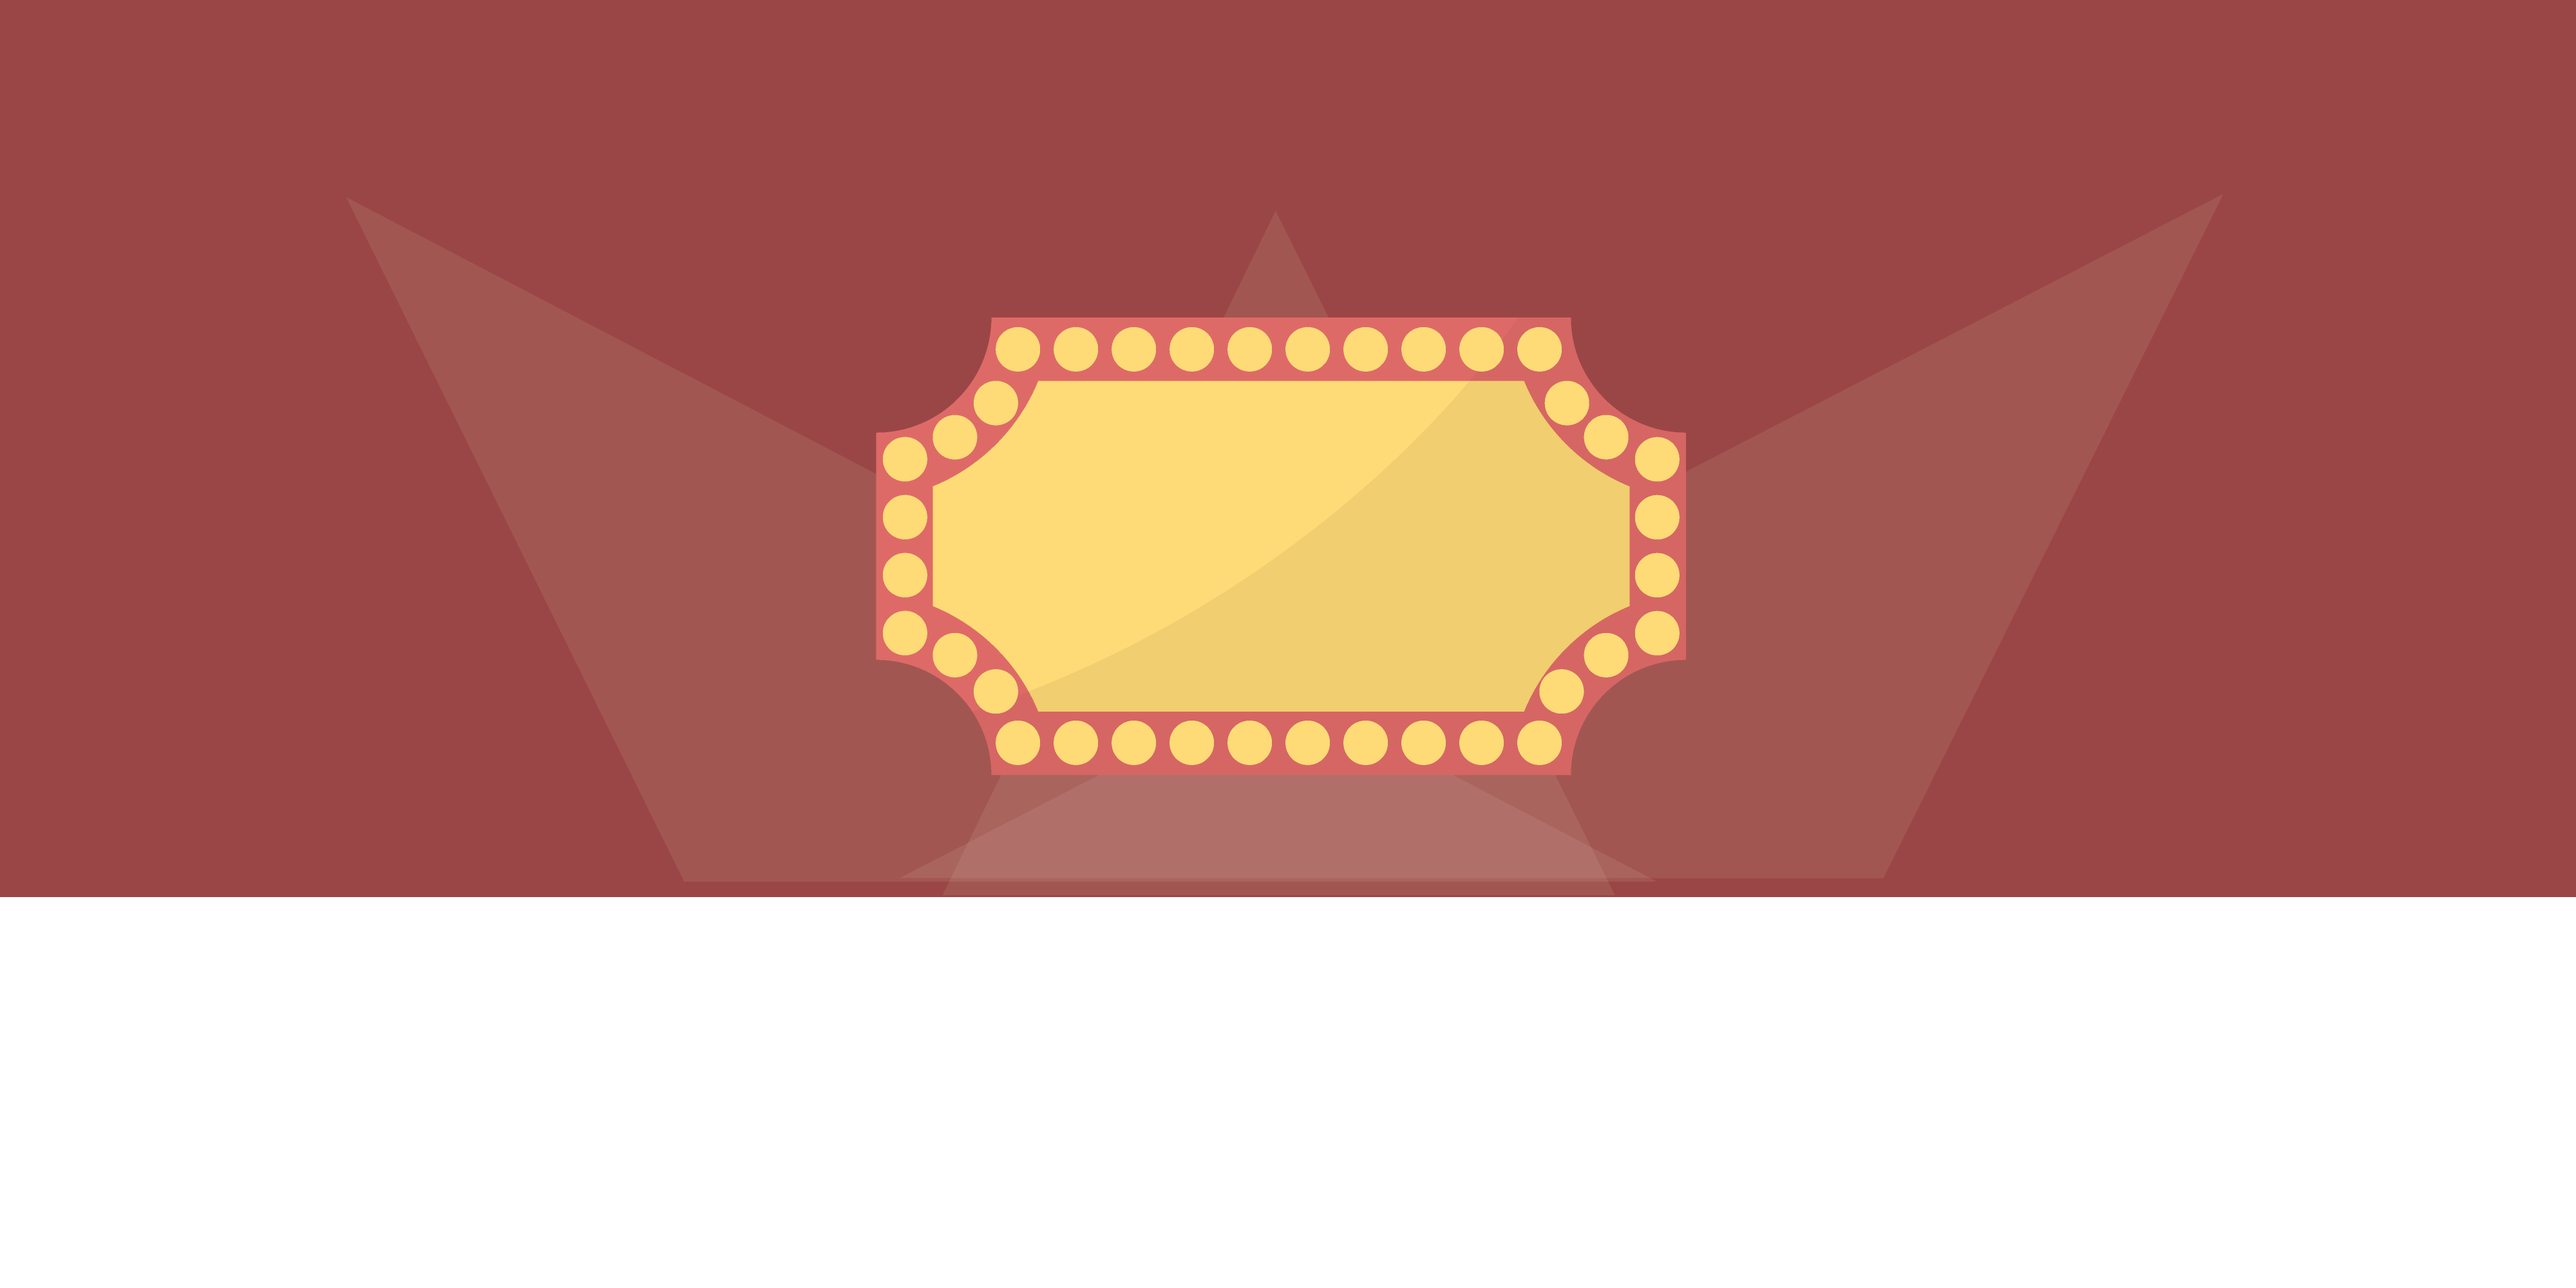
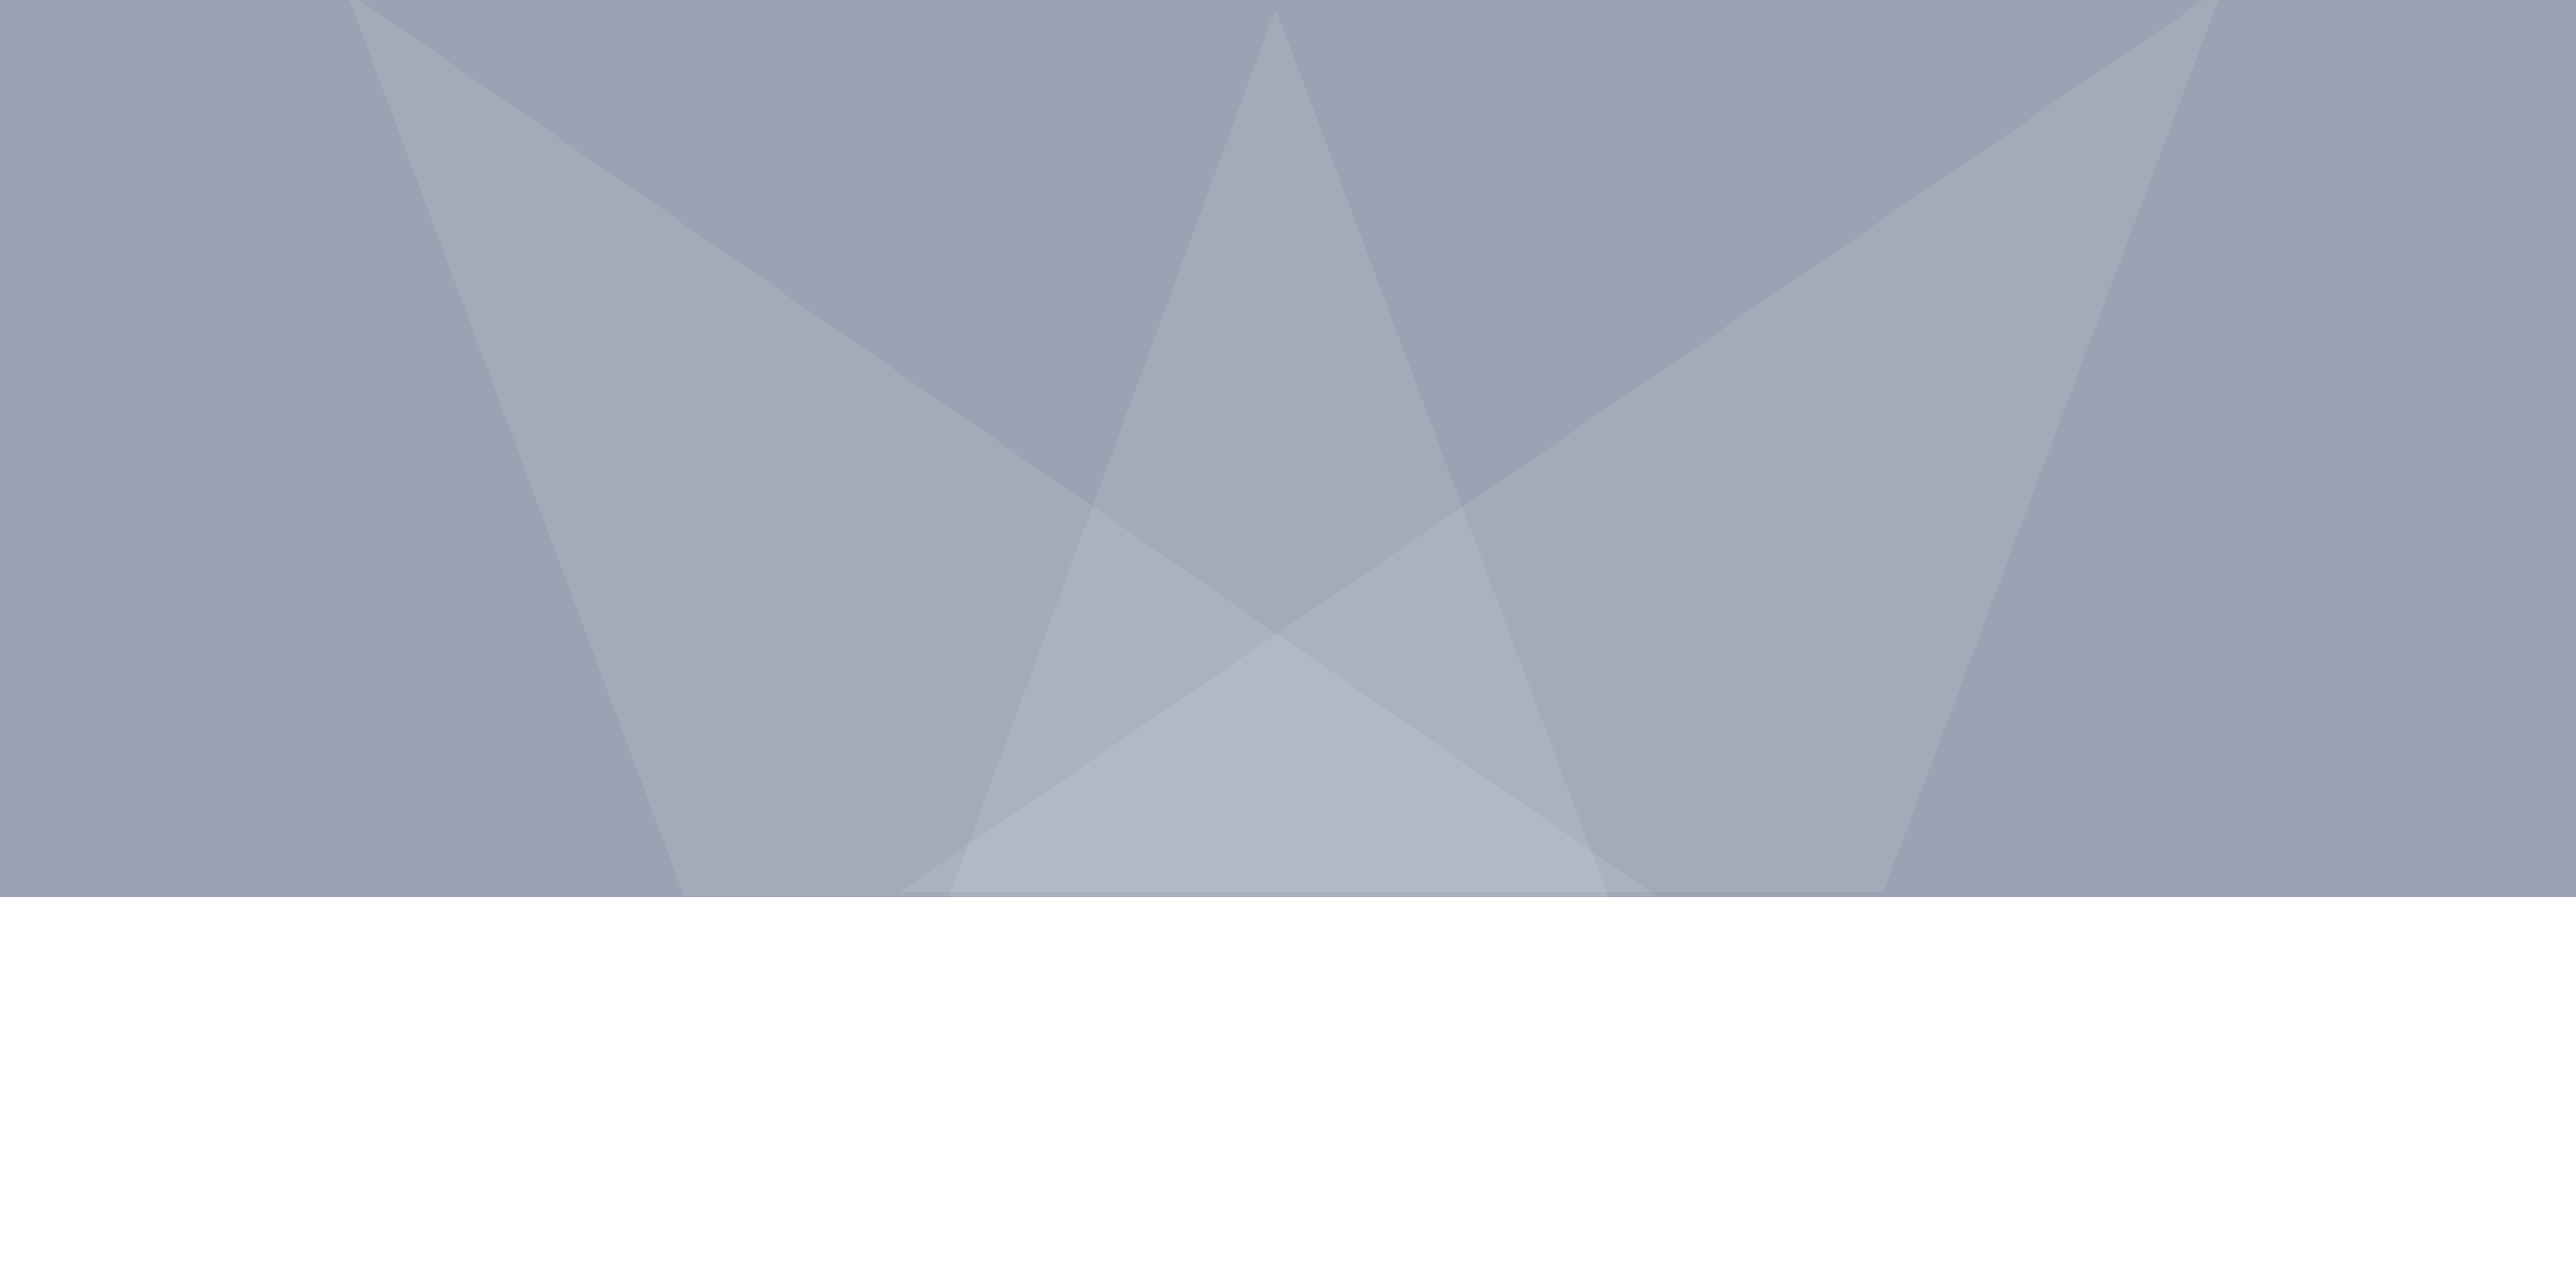
updated colour scheme, css

diff --git a/style.1/main.css b/style.1/main.css
@@ -142,34 +142,27 @@ body {
   /* 16px */
   font-size: 1.6rem;
   font-family: "Montserrat", sans-serif;
-  background-color: #994848; }
+  background-color: #687387; }
 
 button {
   -webkit-box-shadow: none;
   box-shadow: none;
   border: none;
   background: none; }
+  button:focus {
+    outline: 0; }
 
 h1 {
-  padding: 0;
-  margin-top: 28vh;
   text-transform: uppercase;
-  font-size: 5rem;
-  font-family: "Rum Raisin", sans-serif;
-  line-height: 1;
-  color: #dd6a66;
-  display: -webkit-box;
-  display: -ms-flexbox;
-  display: flex;
-  -webkit-box-orient: vertical;
-  -webkit-box-direction: normal;
-  -ms-flex-direction: column;
-  flex-direction: column;
-  -webkit-box-pack: center;
-  -ms-flex-pack: center;
-  justify-content: center;
   text-align: center;
-  -webkit-text-stroke: 1px #994848;
+  font-size: 4rem;
+  font-weight: 400;
+  font-family: "Monoton", cursive;
+  line-height: 1;
+  color: whitesmoke;
+  margin: 0 auto;
+  padding: 30px 0;
+  margin-top: 35vh;
   -webkit-transition: font-size, -webkit-transform 1s;
   transition: font-size, -webkit-transform 1s;
   -o-transition: font-size, transform 1s;
@@ -177,10 +170,11 @@ h1 {
   transition: font-size, transform 1s, -webkit-transform 1s; }
   @media screen and (max-width: 700px) {
     h1 {
-      font-size: 4rem;
+      font-size: 3.5rem;
       -webkit-transform: translateY(10px);
       -ms-transform: translateY(10px);
-      transform: translateY(10px); } }
+      transform: translateY(10px);
+      width: 250px; } }
 
 h2 {
   font-weight: bold;
@@ -199,7 +193,7 @@ ul, li {
 
 main {
   position: relative;
-  background-color: #994848;
+  background-color: #687387;
   color: #ffffff;
   padding: 0px 100px 100px 100px;
   -webkit-transition: padding 1s;
@@ -234,8 +228,8 @@ main {
     display: inline-block;
     margin: 0 auto;
     font-size: 4rem;
-    color: #ffda76;
-    -webkit-text-stroke: 1px #ffda76; }
+    color: whitesmoke;
+    -webkit-text-stroke: 1px whitesmoke; }
 
 #parallax-container {
   position: relative;
@@ -254,7 +248,12 @@ main {
     #parallax-container div:nth-child(1) {
       background: url(../parallax/layer_1.png); }
     #parallax-container div:nth-child(2) {
-      background: url(../parallax/layer_2.png); }
+      -webkit-transition: height 1s;
+      -o-transition: height 1s;
+      transition: height 1s;
+      background-image: url(../parallax/layer_2blinds.png), url(../parallax/layer_2blindsRight.png), url(../parallax/layer_2blindsLeft.png);
+      background-position: top , right, left !important;
+      background-size: cover, contain, contain !important; }
     #parallax-container div:nth-child(3) {
       background: url(../parallax/layer_3.png); }
     #parallax-container div:nth-child(4) {
@@ -265,8 +264,8 @@ main {
 
 /* footer */
 footer {
-  background-color: #dd6a66;
-  color: #ffda76;
+  background-color: #8b94a5;
+  color: whitesmoke;
   text-align: center;
   display: -webkit-box;
   display: -ms-flexbox;
@@ -292,29 +291,27 @@ footer {
 
 /* categories */
 .categories {
-  color: #ffda76;
+  color: whitesmoke;
   margin-top: 30vh;
   padding-top: 25px;
   text-align: center; }
   .categories p {
-    max-width: 80%;
+    max-width: 500px;
     margin: 10px auto; }
+    @media screen and (max-width: 700px) {
+      .categories p {
+        max-width: 80%; } }
   .categories .change-category {
-    color: white;
-    background: #4d91bc;
+    background: #88abb8;
     text-transform: uppercase;
-    border: 4px dotted #ffda76;
-    display: -webkit-box;
-    display: -ms-flexbox;
-    display: flex;
-    -webkit-box-pack: center;
-    -ms-flex-pack: center;
-    justify-content: center;
+    display: inline-block;
     text-align: center;
     padding: 20px;
-    margin-top: 4%;
-    border-radius: 50px;
-    font-weight: bold; }
+    margin: 0 auto;
+    margin-top: 20px;
+    font-weight: bold;
+    border: 5px dotted #becbd6;
+    border-radius: 25px; }
     .categories .change-category:hover {
       -webkit-animation: wiggle 1s;
       animation: wiggle 1s; }
@@ -374,7 +371,6 @@ footer {
   .categories .category {
     display: inline-block;
     width: 30%;
-    height: 200px;
     margin: 0 1%; }
     @media screen and (max-width: 700px) {
       .categories .category {
@@ -382,10 +378,8 @@ footer {
         margin: 1% 0;
         height: 100px; } }
   .categories button {
-    background: #dd6a66;
-    border: 5px solid #ffda76;
+    background: #8b94a5;
     display: inline-block;
-    height: 100%;
     width: 100%;
     display: -webkit-box;
     display: -ms-flexbox;
@@ -395,17 +389,25 @@ footer {
     justify-content: center;
     -webkit-box-align: center;
     -ms-flex-align: center;
-    align-items: center; }
+    align-items: center;
+    height: 100px;
+    background: -webkit-radial-gradient(0% 100%, circle, transparent 15%, #6894a5 15%) no-repeat, -webkit-radial-gradient(100% 0%, circle, transparent 15%, #6894a5 15%) no-repeat, -webkit-radial-gradient(0% 0%, circle, transparent 15%, #6894a5 15%) no-repeat, -webkit-radial-gradient(100% 100%, circle, transparent 15%, #6894a5 15%) no-repeat;
+    background: -o-radial-gradient(0% 100%, circle, transparent 15%, #6894a5 15%) no-repeat, -o-radial-gradient(100% 0%, circle, transparent 15%, #6894a5 15%) no-repeat, -o-radial-gradient(0% 0%, circle, transparent 15%, #6894a5 15%) no-repeat, -o-radial-gradient(100% 100%, circle, transparent 15%, #6894a5 15%) no-repeat;
+    background: radial-gradient(circle at 0% 100%, transparent 15%, #6894a5 15%) no-repeat, radial-gradient(circle at 100% 0%, transparent 15%, #6894a5 15%) no-repeat, radial-gradient(circle at 0% 0%, transparent 15%, #6894a5 15%) no-repeat, radial-gradient(circle at 100% 100%, transparent 15%, #6894a5 15%) no-repeat;
+    background-position: 0% 100%, 100% 0%, 0% 0%, 100% 100%;
+    background-size: 75% 75%; }
     .categories button p {
-      color: #ffda76;
+      color: whitesmoke;
       text-align: center;
       word-wrap: break-word; }
     @media screen and (max-width: 700px) {
       .categories button {
-        width: 100%; } }
+        margin: 0 auto;
+        height: 100px;
+        width: 200px; } }
 
 .questions {
-  color: #ffda76;
+  color: whitesmoke;
   display: -webkit-box;
   display: -ms-flexbox;
   display: flex;
@@ -420,8 +422,8 @@ footer {
   -ms-flex-align: center;
   align-items: center;
   text-align: center;
-  background-color: #4d91bc;
-  border: 7px solid #42799c;
+  background-color: #88abb8;
+  border: 7px solid #becbd6;
   border-radius: 50px;
   padding: 2rem;
   margin-top: 40vh;

diff --git a/style.1/_categories.scss b/style.1/_categories.scss
@@ -6,22 +6,24 @@
   text-align: center;
 
   p{
-    max-width: 80%;
+    max-width: 500px;
     margin: 10px auto;
+    @media screen and (max-width: 700px){
+      max-width: 80%;
+    }
   }
 
   .change-category{
-    color: white;
     background: $accent2;
     text-transform: uppercase;
-    border: 4px dotted $accent3;
-    display: flex;
-    justify-content: center;
+    display: inline-block;
     text-align: center;
     padding: 20px;
-    margin-top: 4%;
-    border-radius: 50px;
+    margin: 0 auto;
+    margin-top: 20px;
     font-weight: bold;
+    border: 5px dotted $accent;
+    border-radius: 25px;
     &:hover{
       animation: wiggle 1s;
     }
@@ -54,32 +56,35 @@
   .category{
     display: inline-block;
     width: 30%;
-    height: 200px;
     margin: 0 1%;
     @media screen and (max-width: 700px){
       width: 100%;
       margin: 1% 0;
       height: 100px;
     }
-
   }
 
   button {
     background: $secondary;
-    border: 5px solid $accent3;
     display: inline-block;
-    height: 100%;
     width: 100%;
     display: flex;
     justify-content: center;
     align-items: center;
+    height: 100px;
+    background:
+    radial-gradient(circle at 0% 100%, transparent 15%, darken($accent2,10%) 15%) no-repeat, radial-gradient(circle at 100% 0%, transparent 15%, darken($accent2,10%) 15%) no-repeat, radial-gradient(circle at 0% 0%, transparent 15%, darken($accent2,10%) 15%) no-repeat, radial-gradient(circle at 100% 100%, transparent 15%, darken($accent2,10%) 15%) no-repeat;
+    background-position: 0% 100%, 100% 0%, 0% 0%, 100% 100%;
+    background-size: 75% 75%;
     p{
       color: $accent3;
       text-align: center;
       word-wrap: break-word
     }
     @media screen and (max-width: 700px){
-      width: 100%;
+      margin: 0 auto;
+      height: 100px;
+      width: 200px;
     }
   }
 }

diff --git a/index.html b/index.html
@@ -7,7 +7,7 @@
   <meta http-equiv="X-UA-Compatible" content="ie=edge">
   <title>Project 4</title>
   <!-- google web fonts-->
-  <link href="https://fonts.googleapis.com/css?family=Montserrat:400,700|Rum+Raisin" rel="stylesheet">
+  <link href="https://fonts.googleapis.com/css?family=Montserrat:400,700|Monoton" rel="stylesheet">
   <!-- css stylesheet -->
   <link rel="stylesheet" href="style.1/main.css">
 </head>
@@ -21,6 +21,7 @@
       <!-- layer1 -->
       <div>
         <h1>Ajax<br>Answers</h1>
+        
       </div>
       <!-- layer2 -->
       <div></div>
@@ -47,7 +48,7 @@
       <!-- categories -->
       <section class="categories" id="categories">
 
-        <p>Ajax Answers is a trivia game that uses the jService API. To begin, choose a category and try your best to guess the correct answer. To start, choose a category and try your best to guess the correct answer.</p>
+        <p>To begin, choose a category and guess the correct answer. Click "SHOW ANSWER" when you're ready and "NEXT QUESTION" when you're ready to proceed to the next question in the same category. Questions increase in difficulty.</p>
         
         <h2>Choose a category</h2>
 
@@ -59,7 +60,7 @@
           <li class="category"><button class="category-anchor category3" id="21">animals</button></li>
         </ul>
 
-        <a href="#" class="change-category">randomize categories!</a>
+        <a href="#" class="change-category">randomize categories</a>
 
       </section>
 

diff --git a/style.1/_global.scss b/style.1/_global.scss
@@ -16,28 +16,28 @@ button{
   box-shadow: none;
   border: none;
   background: none;
+  &:focus {outline:0;}
 }
 
 h1{
-  padding: 0;
-  margin-top: 28vh;
   text-transform: uppercase;
-  font-size: 5rem;
+  text-align: center;
+  font-size: 4rem;
+  font-weight: 400;
   font-family: $h1;
   line-height: 1;
-  color: $secondary;
-  display: flex;
-  flex-direction: column;
-  justify-content: center;
-  text-align: center;
-  -webkit-text-stroke: 1px $background;
+  color: $accent3;
+  margin: 0 auto;
+  padding: 30px 0;
+  margin-top: 35vh;
   transition: font-size, transform 1s;
   @media screen and (max-width: 700px){
-    font-size: 4rem;
+    font-size: 3.5rem;
     transform: translateY(10px);
+    width: 250px;
   }
-  
 }
+
 
 h2{
   font-weight: bold;
@@ -110,7 +110,22 @@ main {
     width: 100%;
 
     &:nth-child(1){background: url(../parallax/layer_1.png);}
-    &:nth-child(2){background: url(../parallax/layer_2.png);}
+    &:nth-child(2){
+      transition: height 1s;
+      background-image:
+      url(../parallax/layer_2blinds.png),
+      url(../parallax/layer_2blindsRight.png),
+      url(../parallax/layer_2blindsLeft.png);
+      background-position: 
+      top ,
+      right,
+      left !important;
+      background-size: 
+      cover,
+      contain,
+      contain !important;
+      
+    }
     &:nth-child(3){background: url(../parallax/layer_3.png);}
     &:nth-child(4){background: url(../parallax/layer_4.png);}
     &:nth-child(5){

diff --git a/style.1/_colours.scss b/style.1/_colours.scss
@@ -1,7 +1,7 @@
-$background: #994848;
+$background: #687387;
 // secondary is slightly lighter than background
-$secondary: #dd6a66;
-$accent: #42799c;
+$secondary: #8b94a5;
+$accent: #becbd6;
 // accent2 is slightly lighter than accent
-$accent2: #4d91bc;
-$accent3: #ffda76;
+$accent2: #88abb8;
+$accent3: whitesmoke;

diff --git a/style.1/_fontstack.scss b/style.1/_fontstack.scss
@@ -1,2 +1,2 @@
-$h1: 'Rum Raisin', sans-serif;
+$h1: 'Monoton', cursive;
 $body: 'Montserrat', sans-serif;
